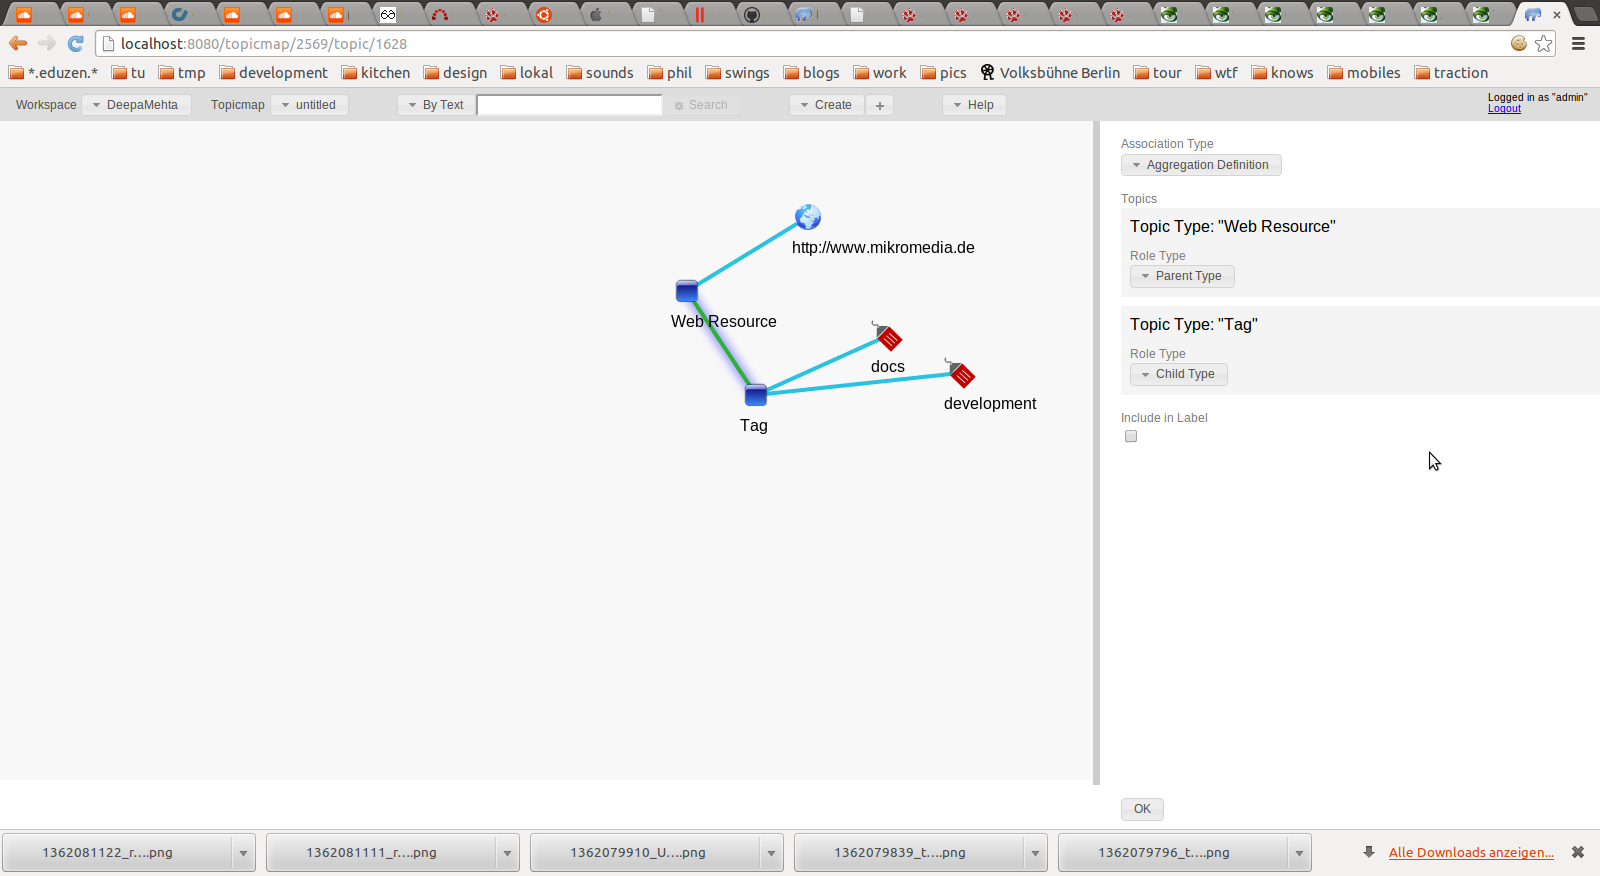
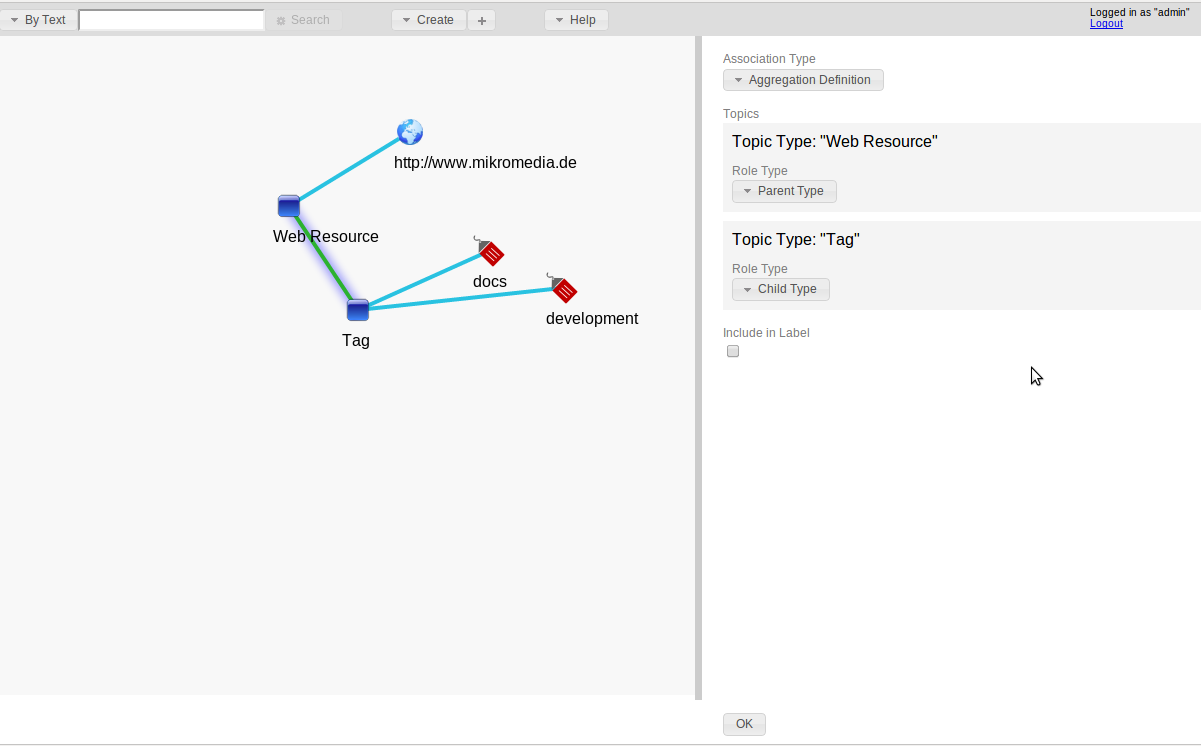
preparing for 1.1, fixing README

Changed region(s): [[0.0, 0.0, 1.0, 1.0], [0.8626, 0.9558, 1.0, 0.9866], [0.2773, 0.2158, 0.3081, 0.2466]]

diff --git a/README.md b/README.md
@@ -1,6 +1,6 @@
 # DeepaMehta 4 Tags Module
 
-A module for users who want to interactively extend a DeepaMehta 4 _Topic_- resp. _Association Type_ of their choice about _one_ or _many_ simple `Tag` field/s. 
+A module for users who want to interactively extend a DeepaMehta 4 _Topic_- resp. _Association Type_ of their choice about _one_ or _many_ simple `Tag` field/s.
 
 The sole use of making this an extra module is, we want to make it clear how to share a taxonomy between various types of information in DeepaMehta, through using `dm4.tags.tag`, e.g. as part of a `Web Resource` or a `Note`.
 
@@ -8,19 +8,19 @@ This plugins was solely developed for backwards compatibility reasons, to simula
 
 # Install Tags Module for DeepaMehta 4
 
-Download the DeepaMehta Tagging 1.0 Bundle. A [download is provided here](https://github.com/downloads/mukil/dm4.tags/deepamehta-tags-1.0.jar) in this repository, also filed under `Downloads`.
+Download the DeepaMehta Tagging 1.0 Bundle. A [download is provided here](https://github.com/downloads/mukil/dm4.tags/deepamehta-tags-1.1.jar) or at http://download.deepamehta.de
 
-Place the downloaded file `deepamehta-tags-1.0.jar` in the `bundles` folder of your deepamehta installation and restart DeepaMehta.
+Place the downloaded file `deepamehta-tags-1.1.jar` in the `bundles` folder of your deepamehta installation and restart DeepaMehta.
 
 # Configure Tags Module for DeepaMehta 4 interactively
 
-Before you are able to start **using** `Tags` you must accomplish the following, non-trivial task of telling your DeepaMehta installation what exactly is going to be tagged and if it will be tagged with just one or with many tags.
+Before you are able to start **using** `Tags` you must accomplish the following, non-trivial task of telling your DeepaMehta installation what exactly is going to be tagged and if it will be tagged with just one or with many tags. So here we go.
 
-So here we go. First, decide what type of information you want to tag with, e.g. "beerware". In this example we are going to enrich `Web Resources` and `Notes` about `Tags` so information of both types can share the same `tags` (and thus can be grouped and navigated together)!
+'''First''', decide what type of information you want to tag with, e.g. "beerware". In this example we are going to enrich `Web Resources` and `Notes` about `Tags` so information of both types can share the same `tags` (and thus can be grouped and navigated together)!
 
-Now, reveal the Topic Type `Web Resource` whose edit form we intend to extend about _many_ input fields of type `Tag`. The easiest way to do so is to select an existing `Web Resource` topic and reveal the topic representing it's type (which is related to all web resource in DeepaMehta via an association of type `Instantiation`). Thus the searched for item is visible every time you select a _web resource_ in DeepaMehta. The Topic Type `Web Resource` is represented by a blue type icon and simply named, guess what `Web Resource`.
+'''Then''', reveal the Topic Type `Web Resource` whose edit form we intend to extend about _many_ input fields of type `Tag`. The easiest way to do so is to select an existing `Web Resource` topic and reveal the topic representing it's type (which is related to all web resource in DeepaMehta via an association of type `Instantiation`). Thus the searched for item is visible every time you select a _web resource_ in DeepaMehta. The Topic Type `Web Resource` is represented by a blue type icon and simply named, guess what `Web Resource`.
 
-Whe you've selected the blue _Topic Type_ called `Web Resource` you additionally need to reveal the newly installed Topic Type `Tag` so you are able to associate both types with each other. In our example the association between this blue `Web Resource` and this blue `Tag` topic needs to be set up to represent the following details about the relationship between these 2 items: A `Tag` plays the `Part Type` related to a `Web Resource` which plays the `Whole Type` respectively. The type of their relationshop is an `Aggregation Definition`. 
+Whe you've selected the blue _Topic Type_ called `Web Resource` you additionally need to reveal the newly installed Topic Type `Tag` so you are able to associate both types with each other. In our example the association between this blue `Web Resource` and this blue `Tag` topic needs to be set up to represent the following details about the relationship between these 2 items: A `Tag` plays the `Child Type` related to a `Web Resource` which plays the `Parent Type` respectively. The type of their relationshop is an `Aggregation Definition`. 
 
 An `Aggregation Definition` is just the expression for: "one single tag can be _part_ of one or many web resources without being deleted when the web resource is deleted". So the `Aggregation Definition` is the correct choice for us here because it expresses that a tag "lives" independently from a web resource. If you can see, have a look at the screenshot I produced from this stage, the association is selected and the picture renders exactly what i've described up to now.
 
@@ -60,6 +60,10 @@ This DeepaMehta plugin is released under the terms of the GNU General Public Lic
 The label icon used by this plugoin is "Free for commercial use" (Include link to authors website) and was designed by [Freeiconsweb](http://www.freeiconsweb.com/).
 
 # Changelog
+
+1.1, Mar 28, 2013
+- Installing the `Tag` bundle automatically assigns the Type `Tag` to the default workspace `DeepaMehta`.
+- updated READMe to DMs new Child / Parent wording
 
 1.1-SNAPSHOT, Feb 28, 2013
 
